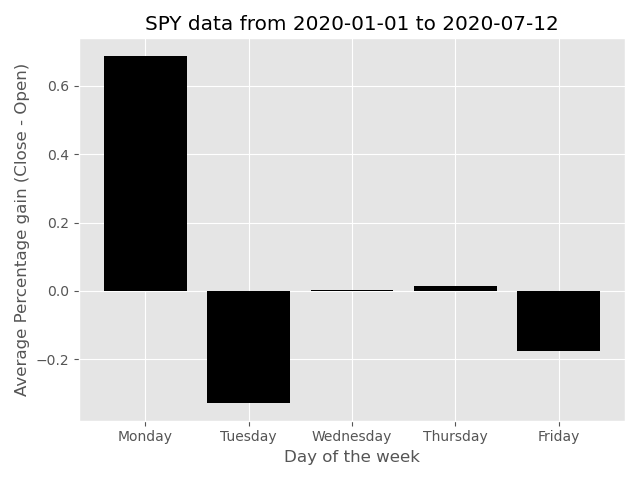
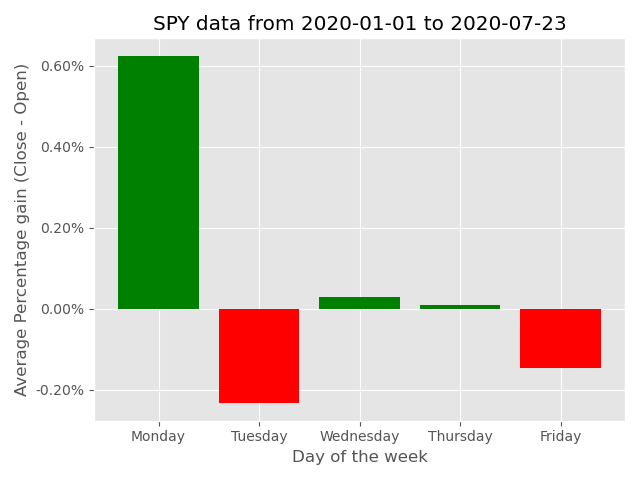
Updated the source code, added new features

diff --git a/src/StockData.py b/src/StockData.py
@@ -3,9 +3,9 @@ import datetime
 import numpy as np
 from pandas_datareader import data as pdr
 import matplotlib.pyplot as plt;
+import matplotlib.ticker as mtick
 
 plt.rcdefaults()
-
 
 stock_symbol = input("Enter Stock Symbol >> \n")
 
@@ -20,9 +20,24 @@ else:
 
 df = pdr.get_data_yahoo(stock_symbol, start=start_date, end=end_date).reset_index()
 
+# Add a day of the week column
 df["Day"] = df['Date'].apply(lambda x: x.strftime('%A'))
-df["Percentage"] = ((df['Close'] - df['Open']) / df['Close']) * 100
+# Calculating Market Hour Daily Gain/Loss percentage
+df["Percentage"] = ((df['Close'] - df['Open']) / df['Open']) * 100
+# Calculating Overnight Gain/Loss percentage
+df["Percentage_Overnight"] = ((df['Open'] - df['Close'].shift()) / df['Close'].shift()) * 100
+# Green candles: Daily Open > Daily Close, Red candle: Daily Open < Daily Close
 df['Daily_Candle_Color'] = df['Percentage'].apply(lambda x: "red" if x < 0 else 'green')
+
+# Cumulative sum of Market Hour Gains
+df["Percentage_Daily_Cumulative_Sum"] = df["Percentage"].cumsum()
+# Cumulative sum of Overnight Gains
+df["Percentage_Overnight_Cumulative_Sum"] = df["Percentage_Overnight"].cumsum()
+
+# Total Sum of Market Hour Gains
+daily_gains_sum = df["Percentage"].sum()
+# Total Sum of Overnight Gains
+overnight_gains_sum = df["Percentage_Overnight"].sum()
 
 days_of_the_week = ['Monday', 'Tuesday', 'Wednesday', 'Thursday', 'Friday']
 days_of_the_week_dfs = []
@@ -53,11 +68,17 @@ for df in days_of_the_week_dfs:
 
 
 def display_average_daily_gain():
+    fig = plt.figure()
     plt.style.use('ggplot')
+
+    ax = fig.add_subplot(111)
+
     x = days_of_the_week
     average_daily_gain = [round(i, len(x)) for i in days_of_the_week_mean]
+    y_colors = ['green' if i > 0 else "red" for i in average_daily_gain]
     x_pos = [i for i, _ in enumerate(x)]
-    plt.bar(x_pos, average_daily_gain, color='black')
+    ax.bar(x_pos, average_daily_gain, color=y_colors)
+    ax.yaxis.set_major_formatter(mtick.PercentFormatter())
 
     plt.xlabel("Day of the week")
     plt.ylabel("Average Percentage gain (Close - Open)")
@@ -70,11 +91,15 @@ def display_average_daily_gain():
 
 
 def display_average_daily_volatility():
+    fig = plt.figure()
     plt.style.use('ggplot')
+    ax = fig.add_subplot(111)
+
     x = days_of_the_week
     average_daily_volatility = [round(i, len(x)) for i in days_of_the_week_volatility]
     x_pos = [i for i, _ in enumerate(x)]
-    plt.bar(x_pos, average_daily_volatility, color='blue')
+    ax.bar(x_pos, average_daily_volatility, color='blue')
+    ax.yaxis.set_major_formatter(mtick.PercentFormatter())
 
     plt.xlabel("Day of the week")
     plt.ylabel("Average Volatility")
@@ -89,6 +114,7 @@ def display_average_daily_volatility():
 def display_daily_candle_distribution():
     x = days_of_the_week
     n = len(x)
+    plt.style.use('ggplot')
 
     green_daily_candles = [i['green'] for i in days_of_the_week_tables]
     red_daily_candles = [i['red'] for i in days_of_the_week_tables]
@@ -108,6 +134,43 @@ def display_daily_candle_distribution():
     plt.close()
 
 
+def display_dailygains_versus_overnightgains():
+    fig = plt.figure(figsize=(12, 8))
+    plt.style.use('ggplot')
+    ax = fig.add_subplot(111)
+    ax.plot(df["Date"], df["Percentage_Daily_Cumulative_Sum"], label='Market Hours Gains')
+    ax.plot(df["Date"], df["Percentage_Overnight_Cumulative_Sum"], label='Overnight Gains')
+    ax.legend()
+    ax.yaxis.set_major_formatter(mtick.PercentFormatter())
+    plt.title("{0} Gains\nFrom {1} to {2}".format(stock_symbol, start_date.date(), end_date.date()))
+    plt.ylabel('Percent Gain Overtime')
+    plt.xlabel('Date')
+    plt.show()
+    plt.close()
+
+
+def dailygains_versus_overnightgains_percentage():
+    fig = plt.figure()
+    plt.style.use('ggplot')
+    ax = fig.add_subplot(111)
+
+    x = ["Market Hours Gains", "Overnight Gains"]
+    y = [daily_gains_sum, overnight_gains_sum]
+    y_colors = ['green' if i > 0 else "red" for i in y]
+    x_pos = [i for i, _ in enumerate(x)]
+    ax.yaxis.set_major_formatter(mtick.PercentFormatter())
+    ax.bar(x_pos, y, color=y_colors)
+
+    plt.title("{0} Gains: market hours vs overnight\nFrom {1} to {2}".format(stock_symbol,
+                                                                             start_date.date(), end_date.date()))
+    plt.ylabel('Total Gain')
+    plt.xticks(x_pos, x)
+    plt.show()
+    plt.close()
+
+
 display_average_daily_gain()
 display_average_daily_volatility()
 display_daily_candle_distribution()
+display_dailygains_versus_overnightgains()
+dailygains_versus_overnightgains_percentage()

diff --git a/README.md b/README.md
@@ -1,7 +1,7 @@
-#  Stock Market Daily Data
+#  Stock Market Data
 
 This program displays the average historical percentage gain (Daily Close Price - Daily Open Price) and volatility of the stock (Calculated with Standard Deviation of the average daily percentage gain) based on the day of week. It also display the historical best and worst days for a certain stock based on the daily price candle. If the price closed higher than it opened, the daily candle is considered green. If the price closed lower than it opened, the daily candle is considered red. This program display the distribution of historical daily candles based on different days of the week as a bar chart.
-
+Moreover, this program also compares gains/losses made during market hours to gains/losses made overnight (outside market hours). 
 ### Example:
 This is an example of displaying SPY data from Jan 1, 2020 to Jul 12, 2020
 
@@ -10,3 +10,7 @@ This is an example of displaying SPY data from Jan 1, 2020 to Jul 12, 2020
 ![Average Volatility](average_volatility.png)
 
 ![Daily Candle](daily_candle.png)
+
+![Market Hours vs Overnight](market_hours_vs_overnight.png)
+
+![Market Hours vs Overnight Total](market_hours_vs_overnight_total.png)
